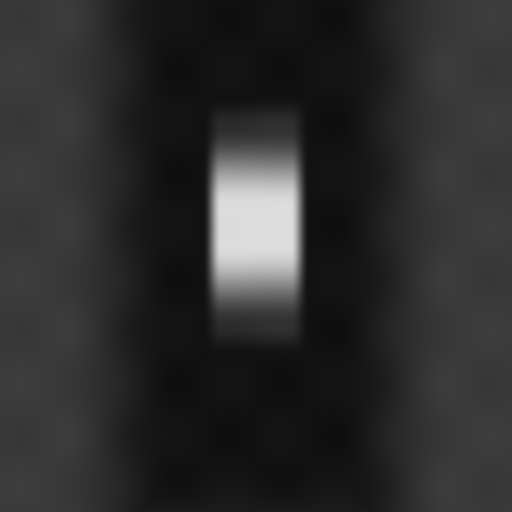
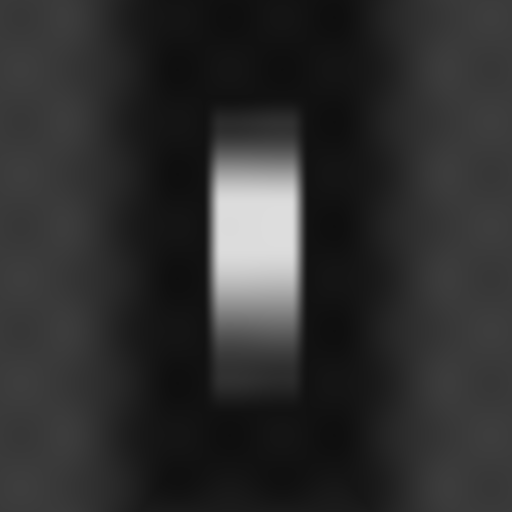
Selva Oscura: collapse 3 scenes into 1 (Inferno-vertical-stack doctrine) + drop indoor flags + gentler colle slope

Changed region(s): [[0.4062, 0.5312, 0.5938, 0.7812]]

diff --git a/games/selva-oscura/src/render/WorldRenderer.cpp b/games/selva-oscura/src/render/WorldRenderer.cpp
@@ -300,38 +300,13 @@ glm::mat4 buildViewProj(const glm::vec3& player_pos, float target_lookat_y,
 
     const glm::vec3 lookAt(player_pos.x, smoothed_lookat_y, player_pos.z);
 
-    // Indoor follow-distance lerp. Indoor-ness is a scene-kind attribute
-    // now (uniform across the whole scene) — set per scene in scene.json.
-    const engine::world::Scene* scene_ptr = engine::world::currentScenePtr();
-    const bool indoors = scene_ptr != nullptr &&
-                         scene_ptr->kind() == engine::world::SceneKind::Interior;
-    const float target_follow_distance =
-        indoors ? tun.follow_distance_indoor : tun.follow_distance;
-    static float sSmoothedFollowDistance = tun.follow_distance;
-    static bool sFollowDistInit = false;
-    {
-        static Uint64 sPrevFollowTicks = SDL_GetTicks64();
-        const Uint64 nowFollowTicks = SDL_GetTicks64();
-        const float follow_dt = static_cast<float>(nowFollowTicks - sPrevFollowTicks) * 0.001f;
-        sPrevFollowTicks = nowFollowTicks;
-        if (!sFollowDistInit)
-        {
-            sSmoothedFollowDistance = target_follow_distance;
-            sFollowDistInit = true;
-        }
-        else
-        {
-            const float follow_tau = std::max(1e-3f, tun.follow_distance_indoor_tau);
-            const float alpha = 1.0f - std::exp(-follow_dt / follow_tau);
-            sSmoothedFollowDistance +=
-                (target_follow_distance - sSmoothedFollowDistance) * alpha;
-        }
-    }
-
     // Pitch-coupled ideal camera offset. Y cap prevents pitch-down
-    // from flinging the camera arbitrarily high.
+    // from flinging the camera arbitrarily high. The physics pull-in
+    // pipeline below shrinks the actual arm length when geometry
+    // blocks the ray — no separate "indoor follow distance" flag is
+    // needed: pulling-in emerges naturally when walls are close.
     const glm::vec3 ideal_offset =
-        -lookFwd * sSmoothedFollowDistance + glm::vec3(0.0f, tun.follow_height, 0.0f);
+        -lookFwd * tun.follow_distance + glm::vec3(0.0f, tun.follow_height, 0.0f);
     const float desired_separation = glm::length(ideal_offset);
     const glm::vec3 cam_dir = desired_separation > 1e-4f ? ideal_offset / desired_separation
                                                          : glm::vec3(0.0f, 1.0f, 0.0f);
@@ -517,7 +492,6 @@ glm::mat4 buildViewProj(const glm::vec3& player_pos, float target_lookat_y,
                                                 cam_z_from_player * cam_z_from_player);
             const glm::vec3 player_vel = player_pos - sPrevPlayerPos;
             const float player_speed = glm::length(player_vel);
-            const bool cam_indoors = indoors;
 
             // SAME-SIDE-OF-WALL PROBE — the load-bearing diagnostic for
             // "can see outside while inside." Forward raycast (from
@@ -657,7 +631,7 @@ glm::mat4 buildViewProj(const glm::vec3& player_pos, float target_lookat_y,
                 "yaw=%.3f pitch=%.3f lookFwd=(%.3f,%.3f,%.3f) "
                 "lookAt=(%.2f,%.2f,%.2f) cam_dir=(%.3f,%.3f,%.3f) "
                 "ideal_off=(%.2f,%.2f,%.2f) ideal_off_len=%.2f "
-                "follow_dist=%.2f indoors=%d cam_indoors=%d "
+                "follow_dist=%.2f "
                 "hit=%d hit_dist=%.3f target_sep=%.3f smoothed_sep=%.3f "
                 "camPos=(%.2f,%.2f,%.2f) cam_y_above_chest=%.3f "
                 "cam_xz_from_player=%.3f overlap=%d "
@@ -670,7 +644,7 @@ glm::mat4 buildViewProj(const glm::vec3& player_pos, float target_lookat_y,
                 player_vel.y, player_vel.z, player_speed, yaw, pitch, lookFwd.x, lookFwd.y,
                 lookFwd.z, lookAt.x, lookAt.y, lookAt.z, cam_dir.x, cam_dir.y, cam_dir.z,
                 ideal_offset.x, ideal_offset.y, ideal_offset.z, desired_separation,
-                sSmoothedFollowDistance, indoors ? 1 : 0, cam_indoors ? 1 : 0,
+                tun.follow_distance,
                 hit.hit ? 1 : 0, hit.distance, target_separation, sSmoothedSeparation,
                 camPos.x, camPos.y, camPos.z, cam_y_above_chest, cam_dist_xz,
                 overlap ? 1 : 0,

diff --git a/games/selva-oscura/src/gameplay/PerFrameTick.cpp b/games/selva-oscura/src/gameplay/PerFrameTick.cpp
@@ -3583,16 +3583,6 @@ static void selvaRenderWorld(Engine& /*engine*/, EntityManager& /*em*/, float /*
     const glm::vec3 camPos = sPlayer.pos - lookFwd * tun_atm.follow_distance +
                              glm::vec3(0.0f, tun_atm.follow_height, 0.0f);
 
-    // Scene-kind: drives whether terrain + sky are drawn. Interior
-    // scenes (chapel_interior, acheron) skip outdoor passes entirely
-    // because their world is sealed architecture; the sky pass would
-    // bleed light through wall seams + the terrain pass would draw
-    // surface ground BENEATH the chapel floor.
-    const engine::world::Scene* current_scene_ptr = engine::world::currentScenePtr();
-    const bool scene_is_interior =
-        current_scene_ptr != nullptr &&
-        current_scene_ptr->kind() == engine::world::SceneKind::Interior;
-
     // ---- Shadow depth pass ----
     {
         ZoneScopedN("shadow-depth-pass");
@@ -3691,8 +3681,6 @@ static void selvaRenderWorld(Engine& /*engine*/, EntityManager& /*em*/, float /*
         selva::render::setSceneViewProj(viewProj);
         selva::render::setSceneAtmosphere(kSunDir, kSunIntensity, camPos, kExposure);
         selva::render::setSceneShadow(lightVP, kSunDir, sPlayer.pos, 1);
-        const bool indoors = scene_is_interior;
-        selva::render::setSceneIndoorMode(indoors);
         selva::render::setSceneFlatShading(selva::tuning::current().debug_flat_shading);
         if (selva::tuning::current().debug_msaa_state_log)
         {
@@ -3708,19 +3696,6 @@ static void selvaRenderWorld(Engine& /*engine*/, EntityManager& /*em*/, float /*
                              "[msaa-state] fbo=%d sample_buffers=%d samples=%d "
                              "GL_MULTISAMPLE_enabled=%d\n",
                              fb_binding, sample_buffers, samples, msaa_enabled);
-            }
-        }
-        if (selva::tuning::current().debug_collision_log)
-        {
-            static FILE* sIndoorLog = nullptr;
-            if (sIndoorLog == nullptr)
-                sIndoorLog = std::fopen("indoor-debug.log", "w");
-            if (sIndoorLog != nullptr)
-            {
-                std::fprintf(sIndoorLog, "cam=(%.3f,%.3f,%.3f) player=(%.3f,%.3f,%.3f) indoors=%d\n",
-                             camPos.x, camPos.y, camPos.z, sPlayer.pos.x, sPlayer.pos.y,
-                             sPlayer.pos.z, indoors ? 1 : 0);
-                std::fflush(sIndoorLog);
             }
         }
         {

diff --git a/games/selva-oscura/src/render/SceneShaders.cpp b/games/selva-oscura/src/render/SceneShaders.cpp
@@ -54,7 +54,6 @@ uniform vec3 uSunDir;
 uniform vec3 uSunIntensity;
 uniform vec3 uCamPos;
 uniform float uExposure;
-uniform float uIndoorMode; // 1.0 inside enclosed architecture, 0.0 outside
 uniform float uFlatShading; // 1.0 = output flat uBaseColor (bisect debug); 0.0 = full lighting
 )glsl";
 
@@ -100,8 +99,6 @@ void main()
     vec3 transmittance;
     vec3 inScatter = atmosphereWithT(uCamPos, rayDir, uSunDir, uSunIntensity,
                                      dist, transmittance);
-    inScatter *= (1.0 - uIndoorMode);
-    transmittance = mix(transmittance, vec3(1.0), uIndoorMode);
 
     vec3 col = surface * transmittance + inScatter;
 
@@ -125,7 +122,6 @@ GLint sUniShadowMapLoc = -1;
 GLint sUniLightViewProjLoc = -1;
 GLint sUniShadowSunDirLoc = -1;
 GLint sUniShadowCamPosLoc = -1;
-GLint sUniIndoorModeLoc = -1;
 GLint sUniFlatShadingLoc = -1;
 GLint sUniBaseColorLoc = -1;
 
@@ -151,7 +147,6 @@ bool initSceneProgram()
     sUniLightViewProjLoc = glGetUniformLocation(sProgram, "uLightViewProj");
     sUniShadowSunDirLoc = glGetUniformLocation(sProgram, "uShadowSunDir");
     sUniShadowCamPosLoc = glGetUniformLocation(sProgram, "uShadowCameraPos");
-    sUniIndoorModeLoc = glGetUniformLocation(sProgram, "uIndoorMode");
     sUniFlatShadingLoc = glGetUniformLocation(sProgram, "uFlatShading");
     sUniBaseColorLoc = glGetUniformLocation(sProgram, "uBaseColor");
     return true;
@@ -193,12 +188,6 @@ void setSceneModel(const glm::mat4& model)
 void setSceneTint(float tint)
 {
     glUniform1f(sUniTintLoc, tint);
-}
-
-void setSceneIndoorMode(bool indoors)
-{
-    if (sUniIndoorModeLoc >= 0)
-        glUniform1f(sUniIndoorModeLoc, indoors ? 1.0f : 0.0f);
 }
 
 void setSceneFlatShading(bool on)

diff --git a/games/selva-oscura/include/Tunables.h b/games/selva-oscura/include/Tunables.h
@@ -96,21 +96,10 @@ struct Tunables
     float pitch_max = 1.45f;           // ~+83 deg
 
     // ---- Camera follow ----
+    // Ideal arm length. The pull-in pipeline shrinks this dynamically
+    // when geometry blocks the ray, so this is the OUTER bound the
+    // camera tries to maintain when nothing's in the way.
     float follow_distance = 6.0f;
-    // Indoor follow distance: a smaller follow distance kicks in
-    // when the player is inside an enclosed footprint (isIndoors).
-    // Outdoor framing (~6m) reads as cinematic but feels claustro-
-    // phobic in a 6x8m chapel; ~4m keeps the camera at a workable
-    // distance for interior navigation without losing context of
-    // the room around the player. The pull-in math operates on
-    // whichever distance is currently effective.
-    float follow_distance_indoor = 4.0f;
-    // Time-constant for the indoor<->outdoor follow-distance lerp
-    // when the player crosses an interior boundary. Longer than the
-    // pull-in tau because this is a soft "context" transition, not
-    // a wall-avoidance reflex. ~0.4s reads as a deliberate camera
-    // shift, not a snap.
-    float follow_distance_indoor_tau = 0.4f;
     float follow_height = 2.5f;
     float fov_degrees = 60.0f;
     // Camera pull-in: raycast from the lookAt anchor toward the

diff --git a/games/selva-oscura/scripts/gen_terrain_heightmap.py b/games/selva-oscura/scripts/gen_terrain_heightmap.py
@@ -75,12 +75,13 @@ SELVA_INNER = {
     # of relief above wake-zone floor (38m total height_max).
     #
     # Approach side (from spawn):
-    "valley_to_ramp_z": -80.0,    # gentle ramp starts here
-    "ramp_to_colle_z": -110.0,    # gentle ramp ends, steep climb begins
-                                  # (longer gentle ramp at 30m, was 10m)
-    "colle_top_start_z": -190.0,  # steep climb ends, plateau starts
-                                  # (steep climb is 80m long, was 35m,
-                                  # keeping slope ~22deg - a real hike)
+    "valley_to_ramp_z": -20.0,    # gentle ramp starts here
+                                  # (very close to spawn, was -80)
+    "ramp_to_colle_z": -60.0,     # gentle ramp ends, climb begins
+                                  # (40m gentle ramp)
+    "colle_top_start_z": -190.0,  # climb ends, plateau starts
+                                  # (climb is now 130m for the same 30m
+                                  # rise: ~13deg, countryside gentle)
     # Plateau (40m wide along the spine):
     "colle_top_end_z": -230.0,
     # Back-side descent (mirror of approach):

diff --git a/games/selva-oscura/src/SaveManager.cpp b/games/selva-oscura/src/SaveManager.cpp
@@ -82,8 +82,13 @@ SaveData load(const std::string& path)
             p.yaw = c.value("yaw", 0.0f);
             p.has_saved_pose = c.value("has_saved_pose", false);
             // Scenes: missing field = "surface" for back-compat with
-            // saves written before the Scenes system existed.
+            // saves written before the Scenes system existed. Older
+            // saves may reference "chapel_interior" or "acheron" —
+            // those scenes were collapsed into "surface" so remap.
             p.current_scene_id = c.value("current_scene_id", std::string{"surface"});
+            if (p.current_scene_id == "chapel_interior" ||
+                p.current_scene_id == "acheron")
+                p.current_scene_id = "surface";
             if (!p.name.empty())
                 data.characters.push_back(std::move(p));
         }

diff --git a/games/selva-oscura/src/ui/TuningPanel.cpp b/games/selva-oscura/src/ui/TuningPanel.cpp
@@ -140,10 +140,7 @@ static void renderCameraSection(selva::tuning::Tunables& tun)
 {
     if (!ImGui::CollapsingHeader("Camera", ImGuiTreeNodeFlags_DefaultOpen))
         return;
-    tunedSlider("Follow distance (outdoor)", &tun.follow_distance, 1.0f, 15.0f, 0.5f, "%.1f");
-    tunedSlider("Follow distance (indoor)", &tun.follow_distance_indoor, 0.5f, 10.0f, 0.25f,
-                "%.2f");
-    tunedSlider("Indoor lerp tau (s)", &tun.follow_distance_indoor_tau, 0.0f, 1.5f, 0.05f, "%.2f");
+    tunedSlider("Follow distance", &tun.follow_distance, 1.0f, 15.0f, 0.5f, "%.1f");
     tunedSlider("Follow height", &tun.follow_height, 0.0f, 8.0f, 0.5f, "%.1f");
     tunedSlider("FOV (deg)", &tun.fov_degrees, 30.0f, 110.0f, 5.0f, "%.0f");
     tunedSlider("Pull-in margin (m)", &tun.camera_pull_in_margin, 0.0f, 1.5f, 0.05f, "%.2f");

diff --git a/games/selva-oscura/include/render/SceneShaders.h b/games/selva-oscura/include/render/SceneShaders.h
@@ -20,12 +20,6 @@ void setSceneTint(float tint);
 // just luminance, so different materials read distinctly.
 void setSceneBaseColor(const glm::vec3& rgb);
 
-// 1.0 when the camera is inside enclosed architecture, 0.0 outside.
-// Suppresses the atmospheric in-scatter term, which would otherwise
-// paint sky light onto interior surfaces (the scatter math doesn't
-// know about wall occlusion).
-void setSceneIndoorMode(bool indoors);
-
 // Debug: when true, fragment shader skips all lighting and outputs
 // flat uBaseColor per primitive. Use to bisect flicker bugs —
 // flicker on = shader math (likely dFdx/dFdy normal flip);
